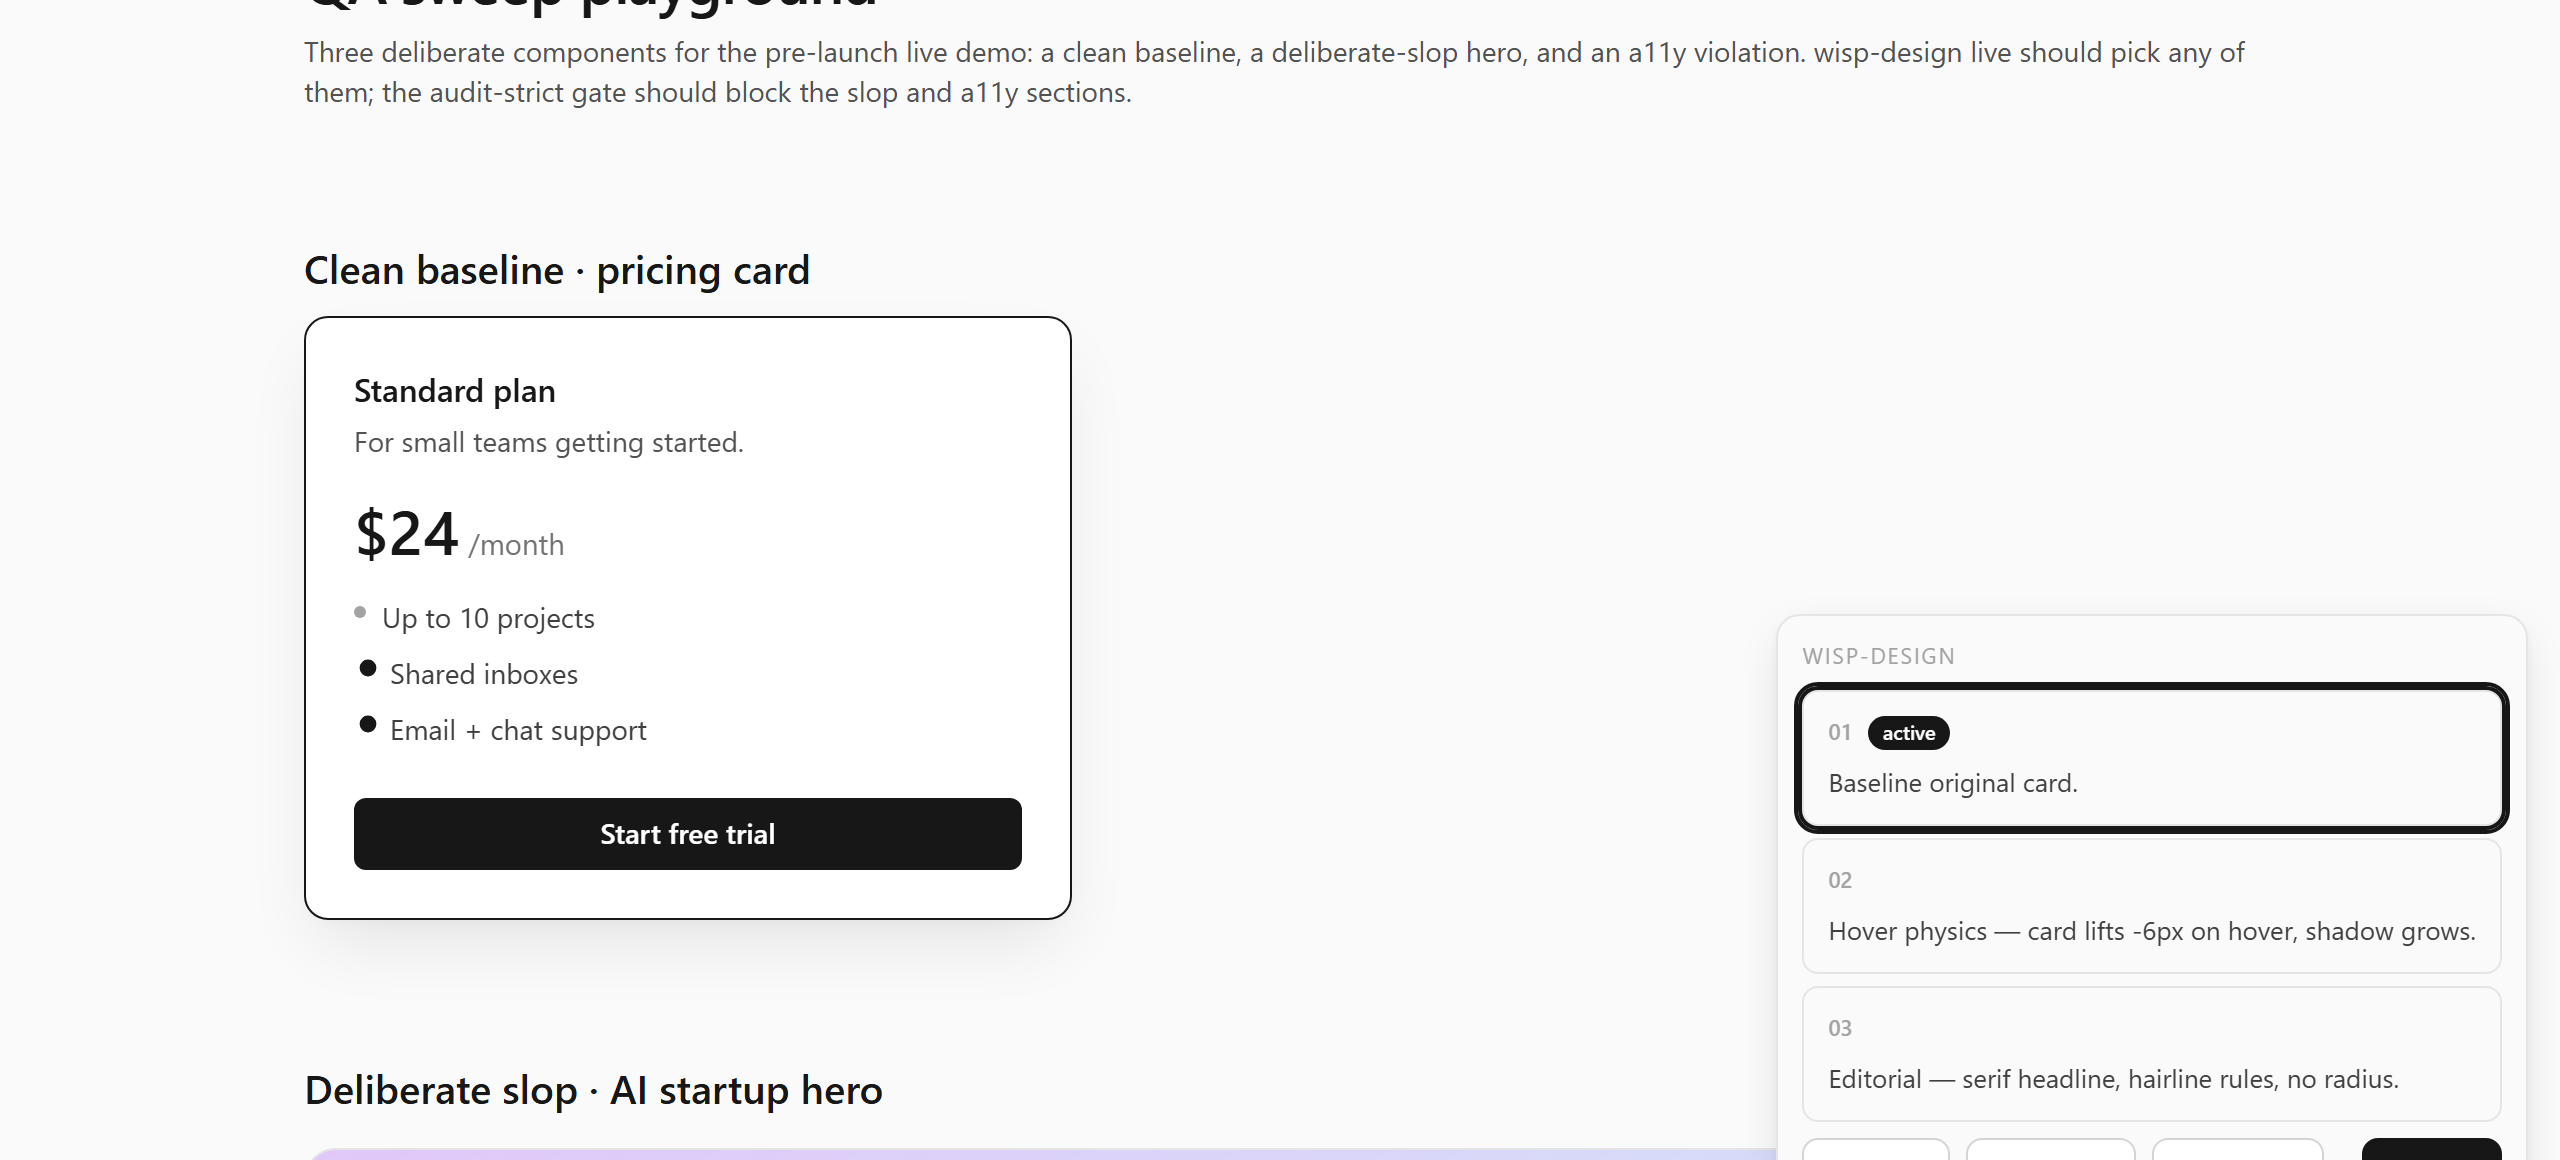
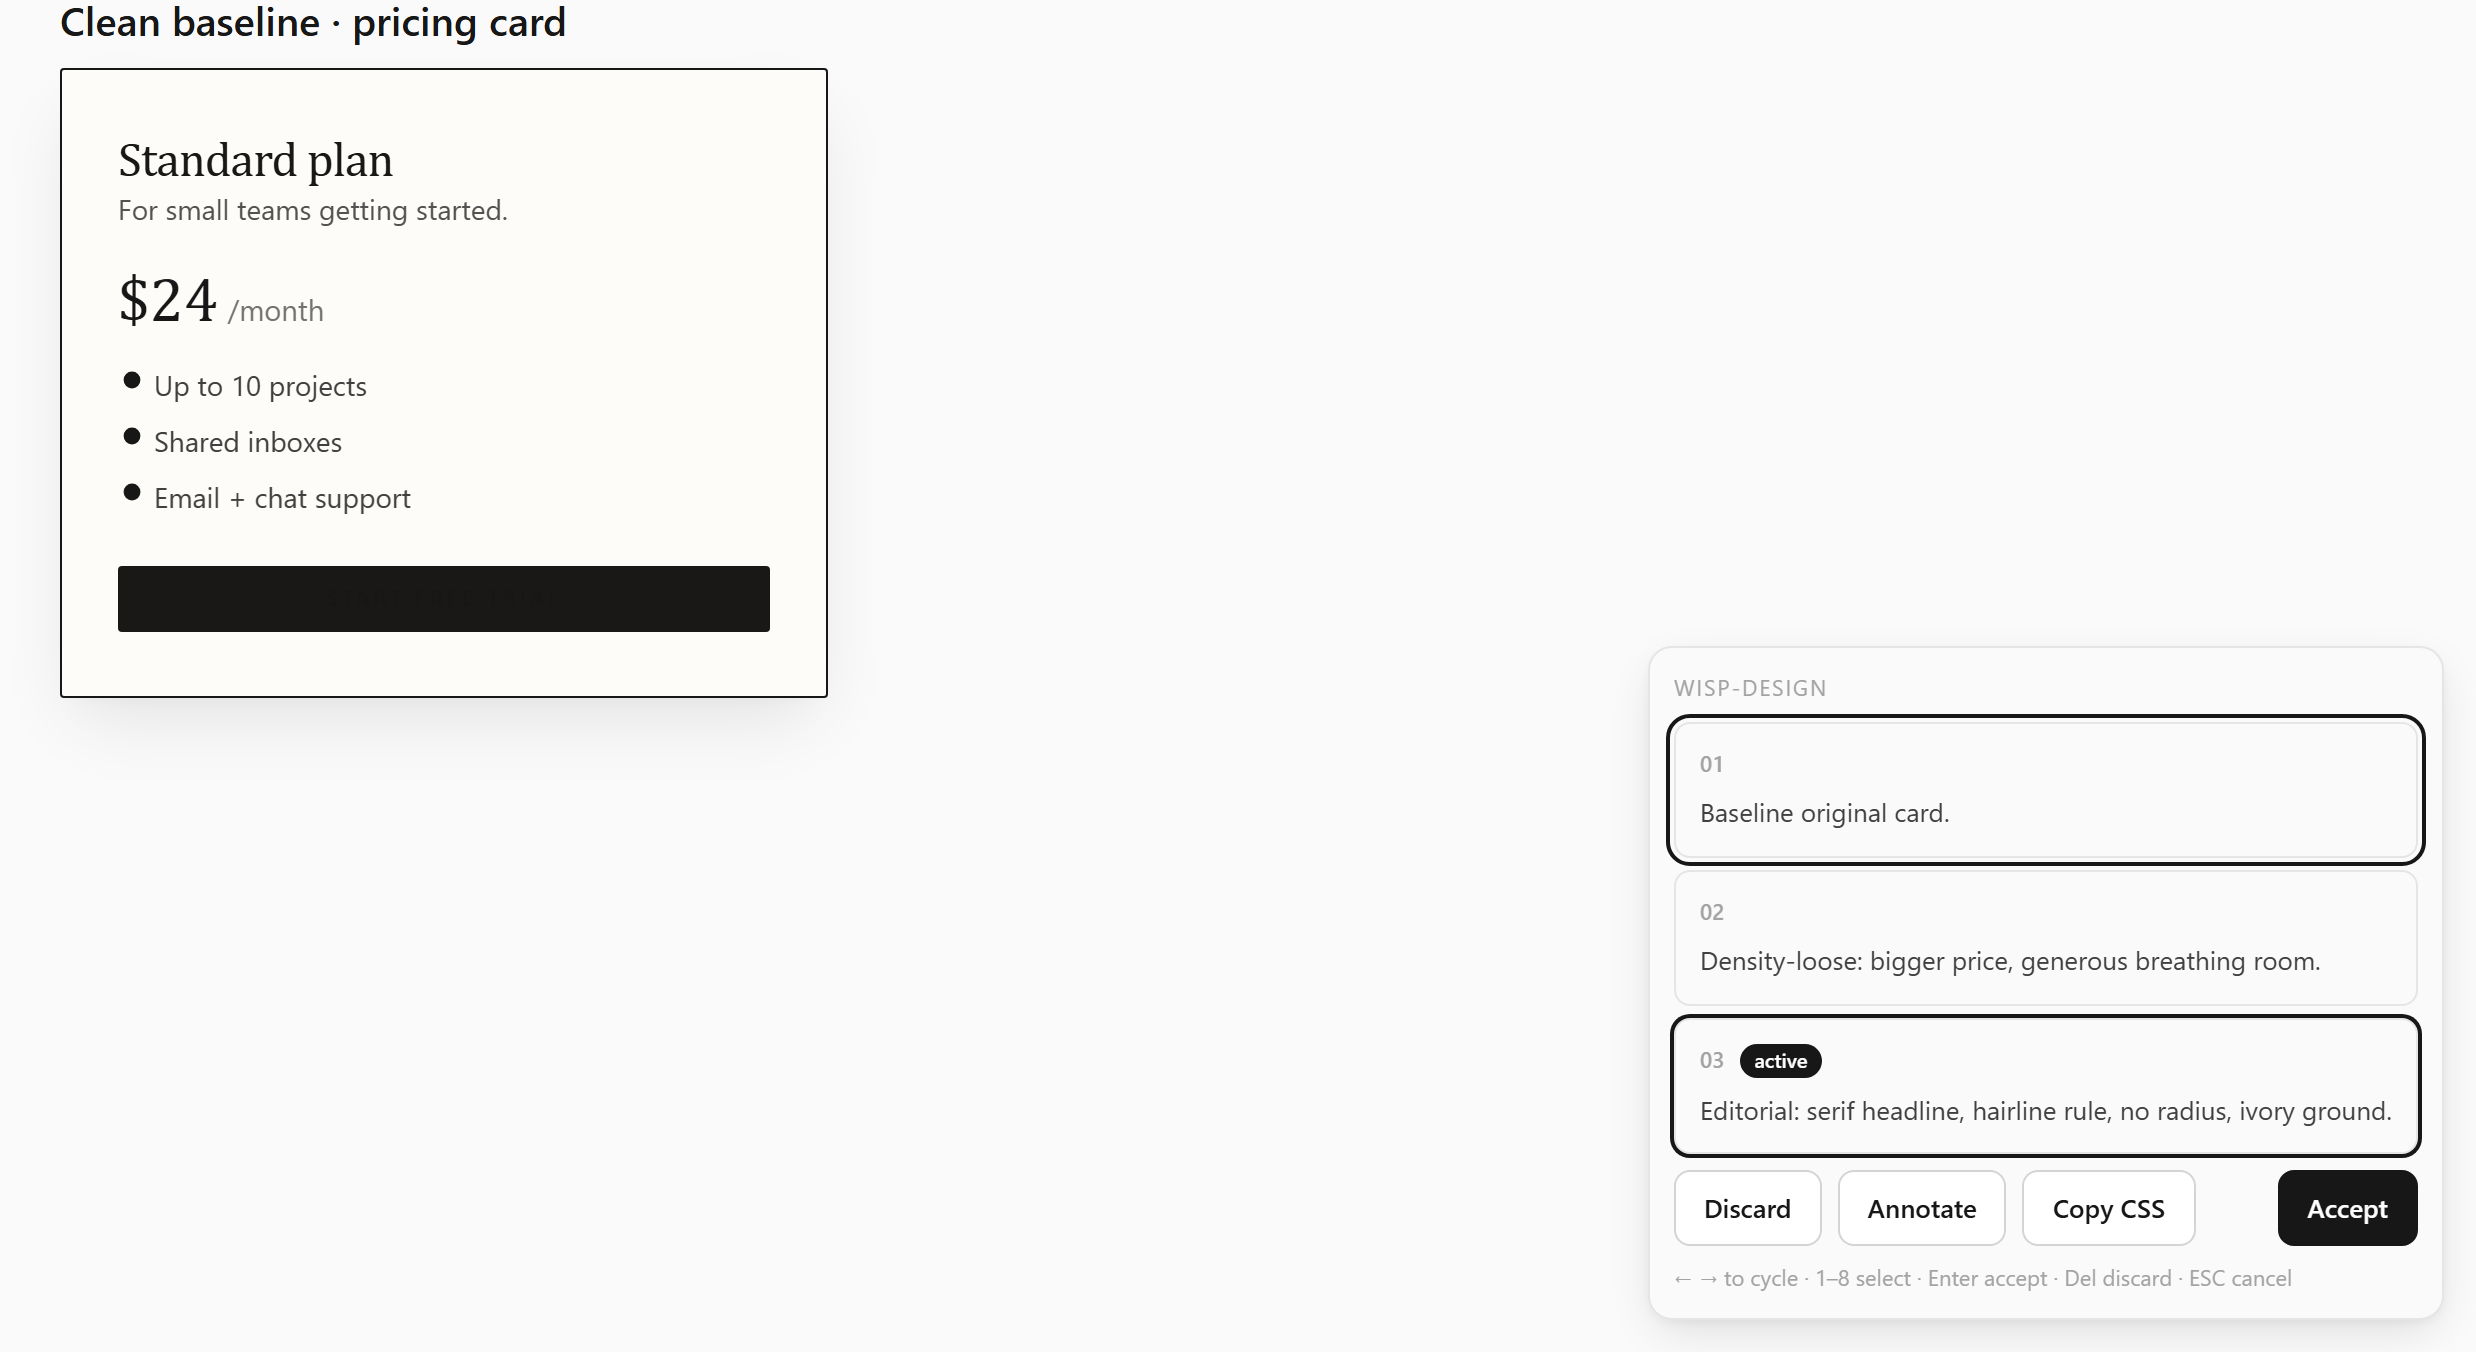
docs(readme): re-shoot screenshots with cleaner staging + truthful captions
The first capture round left three issues:
- shot 1: cursor-on-padding heuristic was wrong, picker resolved to a child <li>
  instead of the article; the deliberate-slop hero from the next section also
  bled into the bottom of the crop
- shot 2: variant-render boots at activeIndex=0 regardless of the cycling-event
  payload, and v1 (hover-physics) has no rest-state visual change, so the card
  in the screenshot looked identical to baseline
- shot 1 caption claimed a "magenta border" but the picker outline is actually
  2px solid rgb(23,23,23) per src/browser/picker.ts:224

Capture script fixes:
- Hide the slop + a11y-fail sections (visibility:hidden) before screenshotting
  so they cannot bleed into the clean-baseline shots
- Position cursor inside the article's top-right padding zone (away from any
  child element) so picker resolves to the <article> tag
- v1 now does density-loose (larger price, more padding); v2 does editorial
  (serif headline, hairline rule, ivory ground) — both visibly distinct at rest
- After the cycling event lands, press "3" to setActive(2), so the rendered
  card actually shows the editorial variant the panel is highlighting

README caption fixes:
- "magenta border" -> the picker outlines the element with a tag-and-size tooltip
- Cycle-mode caption no longer claims per-variant a11y badges or hover-only
  rationale; describes what the screenshot actually shows

diff --git a/README.md b/README.md
@@ -28,13 +28,13 @@ Three variants on a hero CTA. Variant 2 looks great but its blue dropped contras
   <img src="docs/assets/screenshot-1-pick.png" alt="wisp-design picker hovering a hero CTA" width="720">
 </p>
 
-<p align="center"><em>Pick mode — hover any element, magenta border + tag tooltip. Click to configure.</em></p>
+<p align="center"><em>Pick mode — hover any element; the picker outlines it and shows a tag-and-size tooltip. Click to configure.</em></p>
 
 <p align="center">
   <img src="docs/assets/screenshot-2-cycle.png" alt="wisp-design cycling 3 variants with a11y badges" width="720">
 </p>
 
-<p align="center"><em>Cycle mode — three distinct variants, per-variant a11y delta badge, slider-tunable CSS params, 1-sentence rationale on hover.</em></p>
+<p align="center"><em>Cycle mode — the card re-renders live as you switch between variants. Each variant carries its own rationale; Accept / Discard / Annotate / Copy&nbsp;CSS sit one keypress away.</em></p>
 
 <p align="center">
   <img src="docs/assets/screenshot-3-gate.png" alt="wisp-design verification gate blocking accept on AA contrast failure" width="720">
